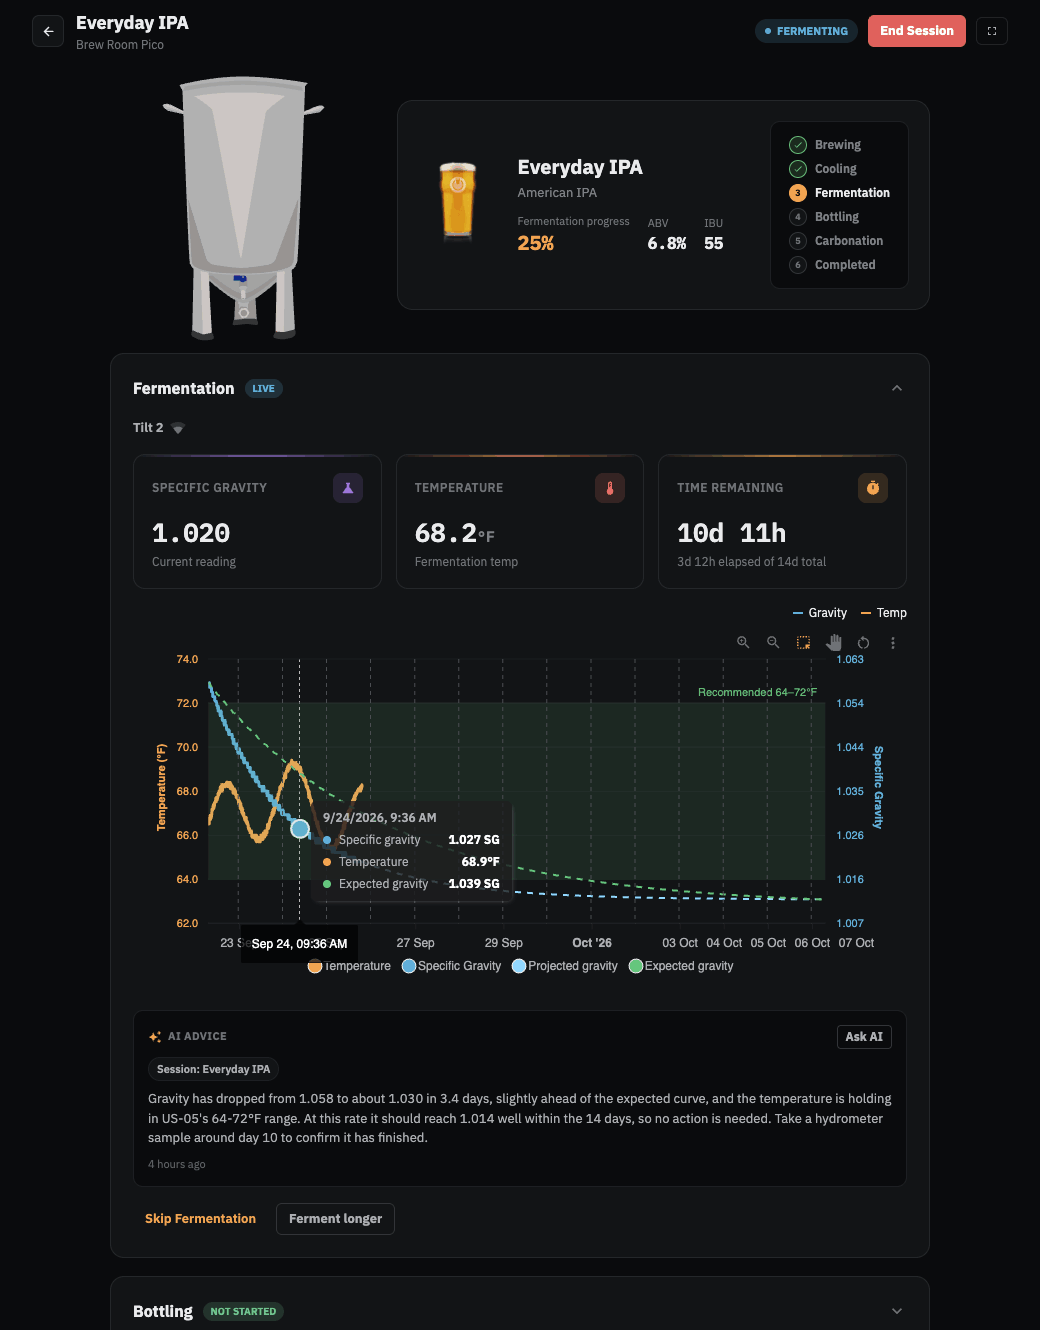
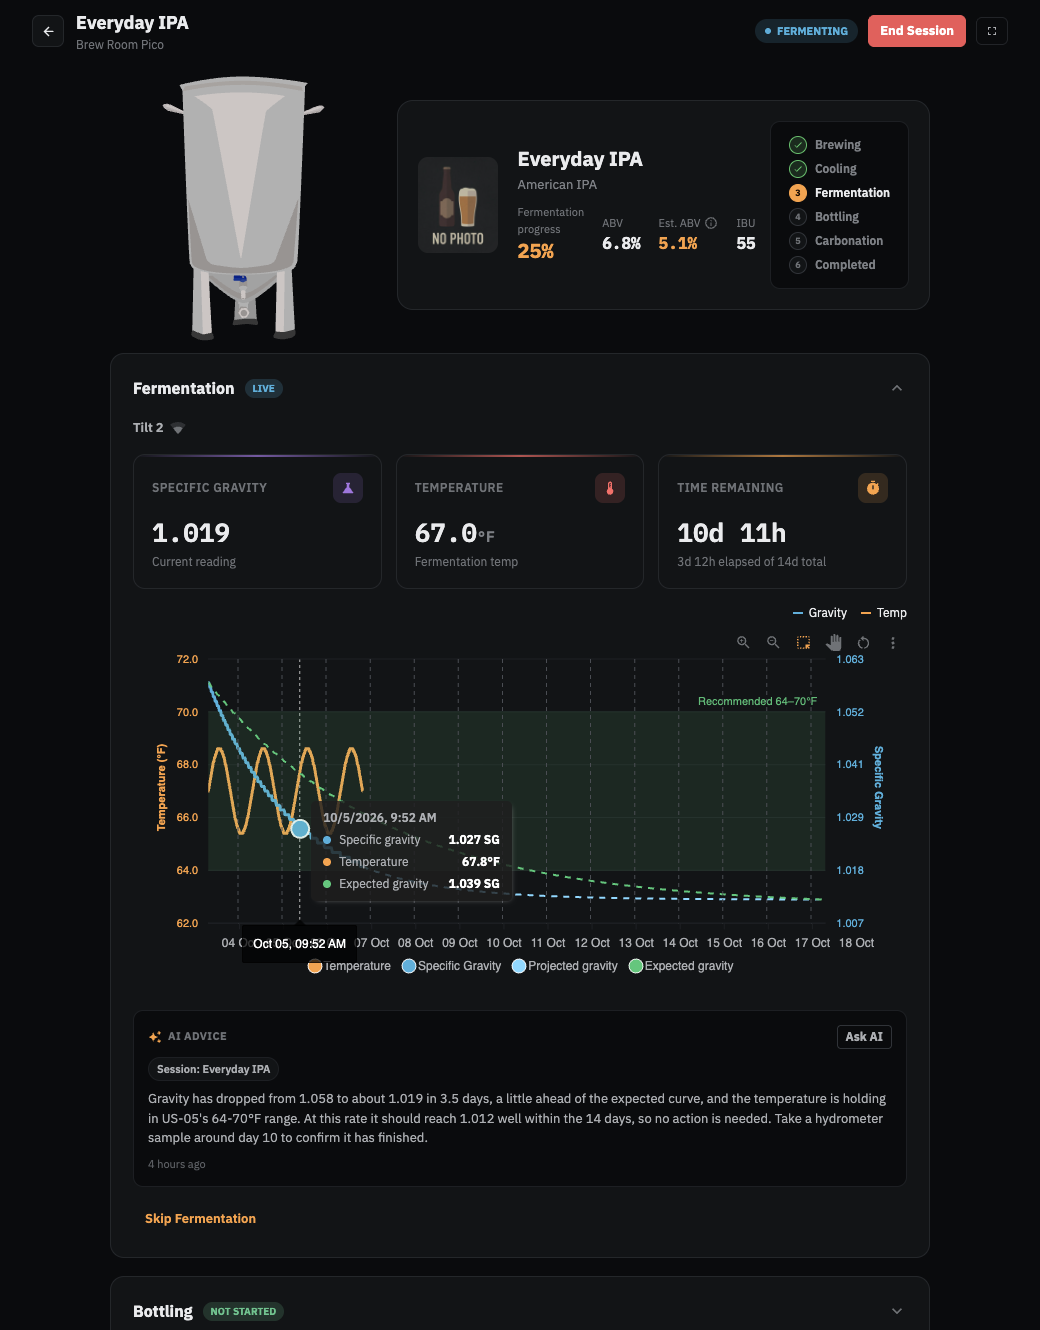
README: refresh the fermentation session screenshot (estimated ABV)

diff --git a/README.md b/README.md
@@ -14,7 +14,7 @@ A PicoBrew server as an alternative to [chiefwigms/picobrew_pico](https://github
     <td align="center" valign="top"><a href="docs/screenshots/recipes.png"><img src="docs/screenshots/recipes.png" alt="Recipes" width="400"></a><br><sub>Recipes: PicoPacks and ZPacks</sub></td>
   </tr>
   <tr>
-    <td align="center" valign="top"><a href="docs/screenshots/session-fermentation.png"><img src="docs/screenshots/session-fermentation.png" alt="Fermentation session" width="400"></a><br><sub>Fermentation: gravity and temperature with the recipe&#39;s recommended temperature range, expected and projected gravity, one combined tooltip, and AI advice</sub></td>
+    <td align="center" valign="top"><a href="docs/screenshots/session-fermentation.png"><img src="docs/screenshots/session-fermentation.png" alt="Fermentation session" width="400"></a><br><sub>Fermentation: estimated ABV so far, gravity and temperature with the recipe&#39;s recommended temperature range, expected and projected gravity, and AI advice</sub></td>
     <td align="center" valign="top"><a href="docs/screenshots/session-brew.png"><img src="docs/screenshots/session-brew.png" alt="Brew session chart" width="400"></a><br><sub>Brew chart with each Pico step marked</sub></td>
   </tr>
   <tr>
